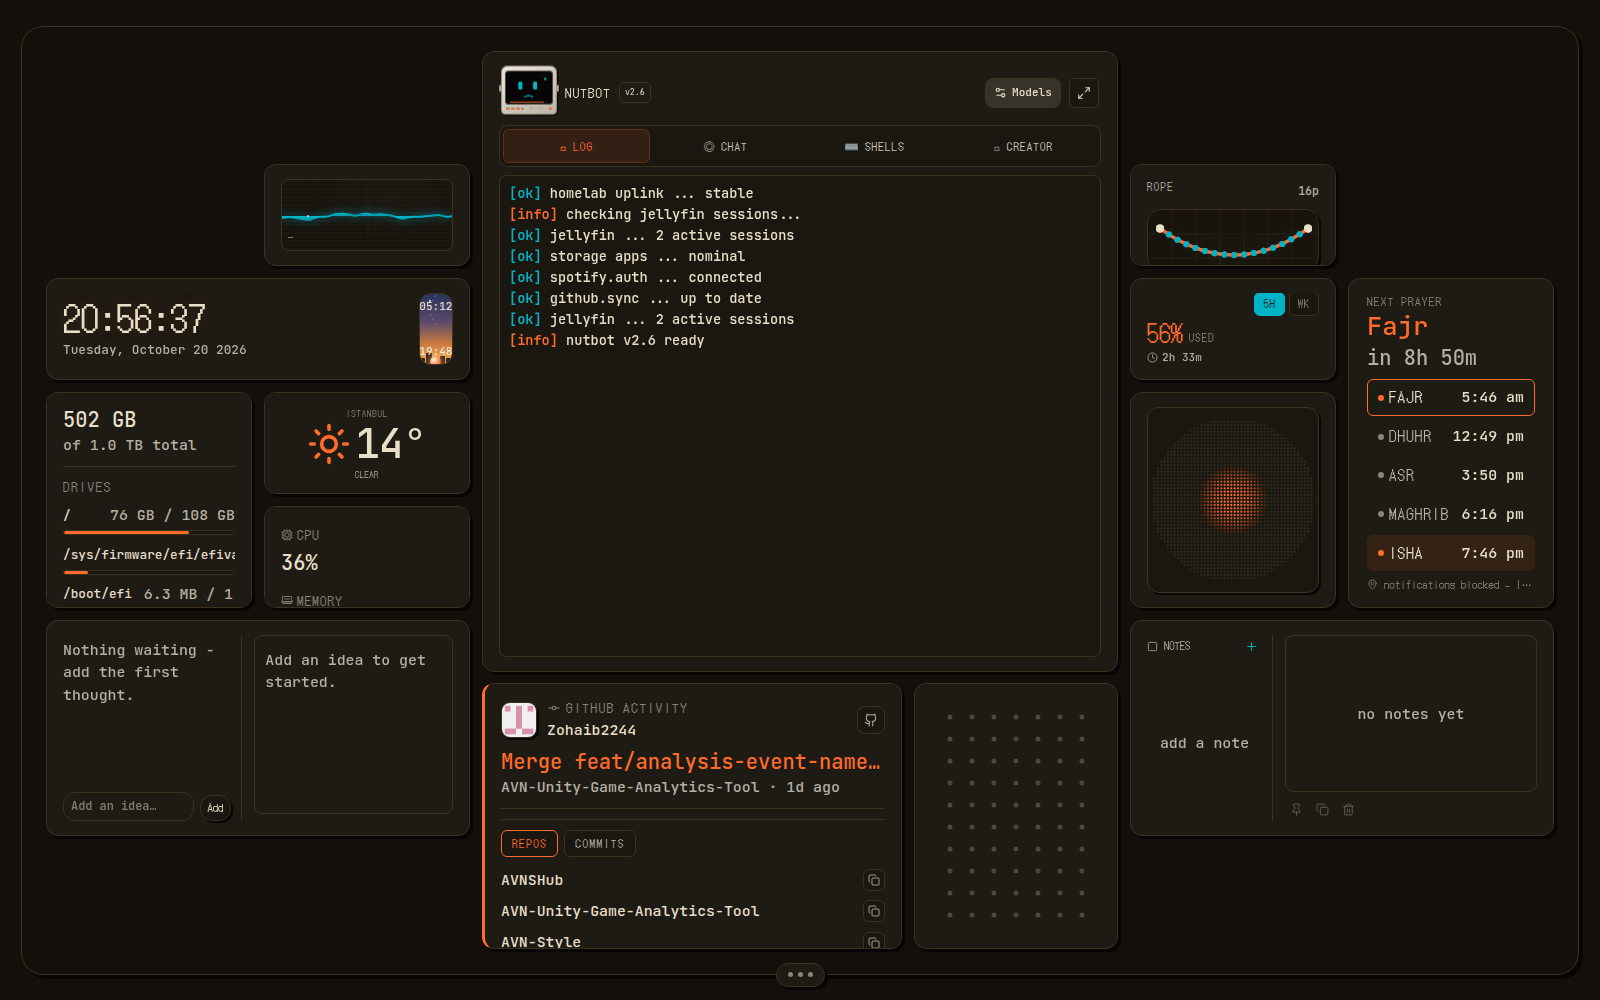
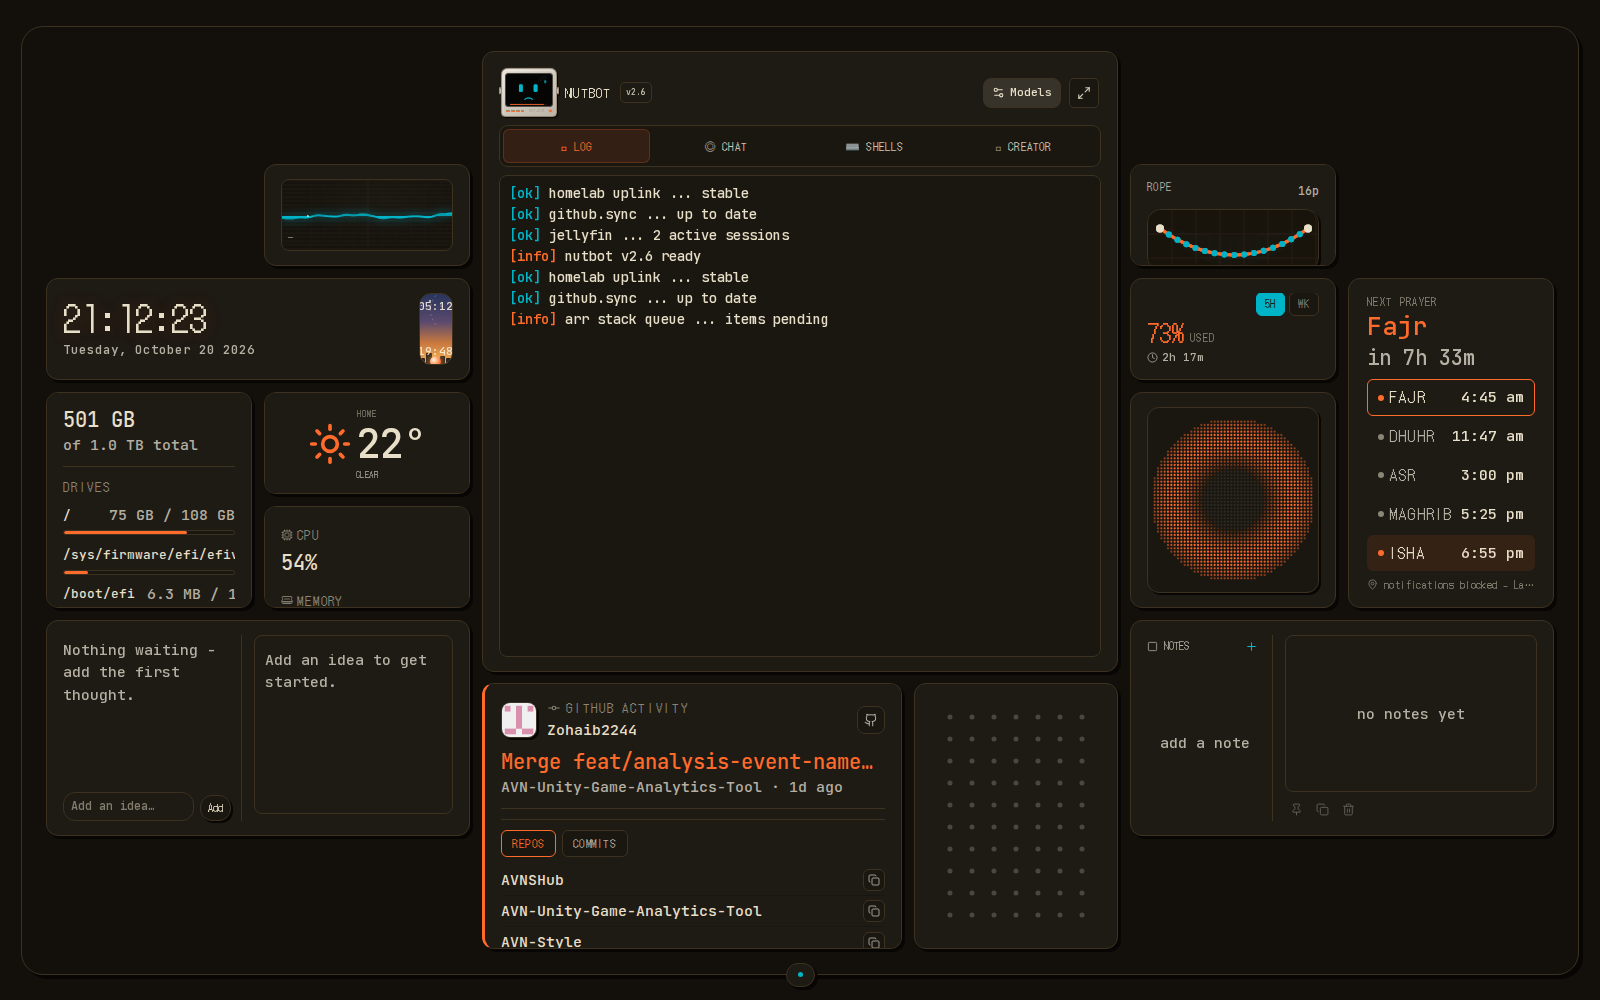
Refresh front page with canvas gallery and light-dark screenshots

diff --git a/lib/slotLayout.ts b/lib/slotLayout.ts
@@ -104,20 +104,20 @@ function buildDefaultState(): SlotLayoutState {
         centerRows: [7, 3]    as FrameRatios["centerRows"],
       },
       widgets: [
-        entry("spotify-visualizer", "left",   1, 1, 1, 1),
-        entry("clock",              "left",   0, 2, 2, 1, { hoverExpand: true,  hoverExpandAxis: "height", layoutSize: "M", theme: "split-sky", showCalendar: true, showLofi: true }),
-        entry("disk-storage",       "left",   0, 3, 1, 2, { hoverExpand: true,  hoverExpandAxis: "width", layoutSize: "L", headerStyle: "stamp" }),
-        entry("weather-updated",    "left",   1, 3, 1, 1),
-        entry("server-stats",       "left",   1, 4, 1, 1, { hoverExpand: true }),
-        entry("idea-inbox",         "left",   0, 5, 2, 2),
-        entry("nutbot",             "center", 0, 0, 1, 1, { hoverExpand: false, hoverExpandAxis: "both" }),
-        entry("github",             "base",   0, 0, 2, 2, { hoverExpand: true,  hoverExpandAxis: "width", layoutSize: "L", flyoutCommits: 5 }),
-        entry("dot-matrix",         "base",   2, 0, 1, 2, { colorMode: "orange", interaction: "repel" }),
-        entry("verlet-sim",         "right",  0, 1, 1, 1, { headerStyle: "ghost", segments: 16, gravity: 0.36, stiffness: 6, anchor: "suspended", trails: true }),
-        entry("claude-usage",       "right",  0, 2, 1, 1, { hoverExpand: true,  hoverExpandAxis: "height" }),
-        entry("prayer-times",       "right",  1, 2, 1, 3),
-        entry("glyph-matrix",       "right",  0, 3, 1, 2, { headerStyle: "ghost", animation: "pulse", speed: "normal", color: "orange", dotSize: "medium" }),
-        entry("notes",              "right",  0, 5, 2, 2, { headerStyle: "stamp" }),
+        entry("clock", "left", 0, 2, 2, 1, { hoverExpand: true, hoverExpandAxis: "height", layoutSize: "M", theme: "split-sky", showCalendar: true, showLofi: true }),
+        entry("nutbot", "center", 0, 0, 1, 1, { hoverExpand: false, hoverExpandAxis: "both", logMaxLines: 15 }),
+        entry("dot-matrix", "base", 2, 0, 1, 2, { hoverExpand: false, hoverExpandAxis: "both", colorMode: "orange", interaction: "repel" }),
+        entry("disk-storage", "left", 0, 3, 1, 2, { hoverExpand: true, hoverExpandAxis: "width", layoutSize: "L", headerStyle: "stamp" }),
+        entry("glyph-matrix", "right", 0, 3, 1, 2, { hoverExpand: false, hoverExpandAxis: "both", headerStyle: "ghost", animation: "pulse", speed: "normal", color: "orange", dotSize: "medium" }),
+        entry("notes", "right", 0, 5, 2, 2, { hoverExpand: false, hoverExpandAxis: "both", headerStyle: "stamp" }),
+        entry("github", "base", 0, 0, 2, 2, { hoverExpand: true, hoverExpandAxis: "both", layoutSize: "L", flyoutCommits: 5 }),
+        entry("spotify-visualizer", "left", 1, 1, 1, 1, { hoverExpand: false, hoverExpandAxis: "both" }),
+        entry("server-stats", "left", 1, 4, 1, 1, { hoverExpand: true, hoverExpandAxis: "both" }),
+        entry("idea-inbox", "left", 0, 5, 2, 2, { hoverExpand: false, hoverExpandAxis: "both" }),
+        entry("weather-updated", "left", 1, 3, 1, 1, { hoverExpand: false, hoverExpandAxis: "both" }),
+        entry("claude-usage", "right", 0, 2, 1, 1, { hoverExpand: true, hoverExpandAxis: "height" }),
+        entry("verlet-sim", "right", 0, 1, 1, 1, { hoverExpand: false, hoverExpandAxis: "both", segments: 16, gravity: 0.36, stiffness: 6, anchor: "suspended", trails: true }),
+        entry("prayer-times", "right", 1, 2, 1, 3, { hoverExpand: false, hoverExpandAxis: "both" }),
       ].filter((w): w is SlotWidgetInstance => w !== null),
     };
   }

diff --git a/lib/canvases.ts b/lib/canvases.ts
@@ -30,7 +30,7 @@ let defaultState: CanvasesState | null = null;
    React's "should be cached to avoid an infinite loop" warning */
 function buildDefaultState(): CanvasesState {
   if (!defaultState) {
-    defaultState = { canvases: [{ id: DEFAULT_CANVAS_ID, name: "Home" }], activeId: DEFAULT_CANVAS_ID };
+    defaultState = { canvases: [{ id: DEFAULT_CANVAS_ID, name: "avn-hub", icon: "NutBotScreen" }], activeId: DEFAULT_CANVAS_ID };
   }
   return defaultState;
 }

diff --git a/README.md b/README.md
@@ -1,15 +1,42 @@
 # AVN Hub
 
-> A blank canvas. Fill it with whatever you want.
+### Your space. Your widgets.
 
-AVN Hub is a self-hosted dashboard framework that starts empty. There are no fixed widgets and no preset layout. You fill it, and the AI widget creator is the fastest way: open NutBot's creator tab, describe a widget (a cube timer, a live price feed, a rope-physics toy, a chore board), and it generates a real, type-checked `.tsx` component that drops straight onto the canvas. Then resize it, drag it around, and keep it in whichever named canvas fits: one for work, one for the homelab, one for fun.
+A self-hosted dashboard for your tools, live data and little distractions. Describe a widget to NutBot, watch it become a working component, then make room for it on your canvas.
 
-The bundled widgets (Spotify, Steam, homelab status, system stats, GitHub activity, notes and others) are examples of what the framework holds, not the point of it.
+[Get started](#get-started) · [Explore the gallery](docs/GALLERY.md) · [Create a widget](docs/WIDGET_CREATOR.md) · [Setup guide](docs/SETUP.md)
 
-![AVN Hub, dark mode](docs/screenshots/hero-dark.png)
-![AVN Hub, light mode](docs/screenshots/hero-light.png)
+[![AVN Hub — the starter arrangement with a night-city wallpaper and a palette drawn from the image](docs/screenshots/gallery-night-city.png)](docs/GALLERY.md#night-city)
 
-## Quick start
+## At home in light or dark
+
+Start with the **avn-hub** arrangement: clock, weather, storage, system stats and an idea inbox beside NutBot; prayer times and visual toys on the right; GitHub activity below. Move, resize, replace — every widget is yours to change.
+
+| Ember dark | Ember light |
+| :---: | :---: |
+| [![The avn-hub starter canvas in dark mode](docs/screenshots/hero-dark.png)](docs/screenshots/hero-dark.png) | [![The same avn-hub starter canvas in light mode](docs/screenshots/hero-light.png)](docs/screenshots/hero-light.png) |
+
+## Make it yours
+
+One install, many moods. Each named canvas keeps its own layout, palette, wallpaper and backdrop style. Go from a quiet reading desk to a toy box, a music corner or a work console.
+
+| Rain · a quieter desk | Forest · room to play |
+| :---: | :---: |
+| [![Rain — clocks, weather, dictionary and notes over a rainy street](docs/screenshots/gallery-rain.png)](docs/GALLERY.md#rain) | [![Forest — ping-pong, dot matrix, glyph rings and a rope toy](docs/screenshots/gallery-forest.png)](docs/GALLERY.md#forest) |
+| **Red room · music and code** | **Work · a different rhythm** |
+| [![Red room — music visualizer and tools in the berry palette](docs/screenshots/gallery-red-room.png)](docs/GALLERY.md#red-room) | [![Work — game ops, shift tracking and notes over a pixel-art skyline](docs/screenshots/gallery-work.png)](docs/GALLERY.md#work) |
+
+[See all eight canvases →](docs/GALLERY.md)
+
+## Dream up the next widget
+
+A cube timer. A chore board. A live price feed. A tiny game. Open NutBot's **Creator** tab and describe it: plan the idea, explore visual variations, then build a real, type-checked widget. Drag it onto any canvas alongside the bundled starters.
+
+[![NutBot Widget Creator workspace](docs/screenshots/widget-creator.png)](docs/WIDGET_CREATOR.md)
+
+[Walk through your first widget →](docs/WIDGET_CREATOR.md)
+
+## Get started
 
 ```bash
 git clone https://github.com/Zohaib2244/AVNSHub.git
@@ -19,46 +46,12 @@ cp .env.example .env.local
 npm run dev
 ```
 
-Open http://localhost:3000. Node 20.9+ is required. On Windows, double-click `install.bat` once (it checks Node, installs packages, creates `.env.local` and sets up the database), then use `run.bat` to start the hub. The Widget Creator and NutBot chat additionally need one signed-in agent CLI (`claude`, `codex` or `opencode`); the rest of the dashboard works without it.
+Open **http://localhost:3000**. Requires Node 20.9+. On Windows, double-click **install.bat**, then **run.bat**. AI creation and chat need a signed-in Claude Code, Codex or OpenCode CLI.
 
-AVN Hub deliberately runs the Next.js dev server as its runtime, because the Widget Creator writes real source files while it runs. It has no login of its own, so keep it on localhost, a LAN or Tailscale. See [docs/SETUP.md](docs/SETUP.md).
+AVN Hub runs through the dev server so generated widgets appear live. Host it on localhost, your LAN or Tailscale; it has no built-in login. [Full setup guide →](docs/SETUP.md)
 
-## What you get
+## Go deeper
 
-- **Widget Creator** - plan, ideate and build widgets from a description. A failed draft never touches your running dashboard.
-- **Named canvases** - separate layouts, each with its own theme, palette, wallpaper and arrangement.
-- **Slot grid** - drag and resize widgets; each size shows its own layout.
-- **Hub Core** - edit mode, themes and palettes, wallpaper and backdrop modes, widget manager, layout import/export, command palette (`Ctrl+K`).
-- **NutBot** - log, chat (local LLM or CLI), real shell sessions and the creator in one terminal widget.
+[Setup & hosting](docs/SETUP.md) · [Widget Creator](docs/WIDGET_CREATOR.md) · [Write a widget](docs/WIDGETS.md) · [NutBot & chat](docs/NUTBOT.md) · [Wallpaper Engine](wallpaper/README.md) · [Changelog](CHANGELOG.md)
 
-![Edit mode with the control deck](docs/screenshots/edit-mode.png)
-![Settings and palettes](docs/screenshots/hub-core.png)
-![Widget manager](docs/screenshots/widget-manager.png)
-
-## Make it yours
-
-Every canvas has its own arrangement, palette, wallpaper and backdrop style (solid, blur, transparent or glass). A few examples, all from the same install:
-
-| | |
-| --- | --- |
-| ![Night city](docs/screenshots/gallery-night-city.png) | ![Rain](docs/screenshots/gallery-rain.png) |
-| ![Forest](docs/screenshots/gallery-forest.png) | ![Red room](docs/screenshots/gallery-red-room.png) |
-
-More in the [gallery](docs/GALLERY.md).
-
-## Docs
-
-| Doc | For |
-| --- | --- |
-| [docs/GALLERY.md](docs/GALLERY.md) | Example canvases: palettes, wallpapers, backdrop modes |
-| [docs/SETUP.md](docs/SETUP.md) | Install, configuration, Docker, systemd, Tailscale |
-| [docs/WIDGET_CREATOR.md](docs/WIDGET_CREATOR.md) | Using the in-app creator |
-| [docs/WIDGETS.md](docs/WIDGETS.md) | Writing a widget by hand |
-| [docs/NUTBOT.md](docs/NUTBOT.md) | Chat backends, local LLM, Work mode |
-| [wallpaper/README.md](wallpaper/README.md) | Static Wallpaper Engine build |
-| [docs/design/](docs/design/) | Design system and internal design notes |
-| [CHANGELOG.md](CHANGELOG.md) | Release notes |
-
-## Tech
-
-Next.js (App Router), React, TypeScript, Tailwind CSS with CSS variables, Framer Motion, dnd-kit, Prisma + SQLite, `systeminformation`.
+Built with Next.js, React, TypeScript and SQLite. Styled with AVN's warm surfaces, pixel labels and chunky sticker cards.

diff --git a/docs/GALLERY.md b/docs/GALLERY.md
@@ -9,9 +9,9 @@ Where the controls are:
 - **Backdrop:** settings > *canvas* sets the canvas frame and settings > *widget style* sets the widgets. Each is one of `solid`, `blur`, `transparent` or `glass`, chosen independently.
 - **Arrangement:** the deck's **edit** switch. Drag widgets to move them, pull their edges to resize, and add more from the **widgets** tab.
 
-## Home (the default)
+## AVN Hub (the default)
 
-Ember palette, dark mode, solid canvas and widgets, no wallpaper. This is what a fresh install opens to.
+The **avn-hub** starter arrangement: clock, storage, weather, system stats and idea inbox on the left; NutBot in the center; prayer times, Claude usage, rope and glyph toys on the right; GitHub activity and the dot matrix below. Ember palette, dark mode, solid canvas and widgets, no wallpaper. Fresh installs and **reset layout** on the default canvas use this arrangement. Existing saved layouts stay as they are; new named canvases start empty.
 
 ![Home canvas, ember dark](screenshots/hero-dark.png)
 

diff --git a/CHANGELOG.md b/CHANGELOG.md
@@ -7,6 +7,7 @@ Add entries under `## [Unreleased]` as you work, grouped Added / Changed / Fixed
 ## [Unreleased]
 
 ### Changed
+- Front page rebuilt around a full-width night-city canvas, fresh light/dark captures of the avn-hub arrangement, and a linked visual gallery. Setup details and control-panel walkthroughs stay in the guides.
 - **New default arrangement.** A fresh install (and "reset layout" on the default canvas) now opens to the arrangement from the maintainer's own hub: clock, storage, weather and stats on the left, prayer times, Claude usage, rope and glyph toys on the right, GitHub and the dot matrix under NutBot. Ember stays the default palette.
 - Screenshots retaken on the new default, plus a [gallery](docs/GALLERY.md) of example canvases across palettes, wallpapers and backdrop modes.
 

diff --git a/docs/SETUP.md b/docs/SETUP.md
@@ -16,6 +16,8 @@ There is no database server to install. Hub state (canvases, layout, theme, wall
 
 ## Install and run
 
+Fresh installs open the **avn-hub** starter canvas shown in the [README](../README.md#at-home-in-light-or-dark), in ember dark. It includes the maintainer's widget arrangement; configure integrations in each widget's settings as needed. Existing saved layouts are preserved. **Reset layout** restores the starter on the default canvas; additional named canvases start empty.
+
 ```bash
 git clone https://github.com/Zohaib2244/AVNSHub.git
 cd AVNSHub
